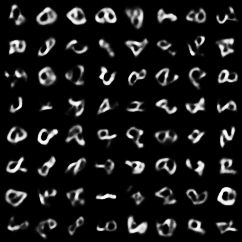
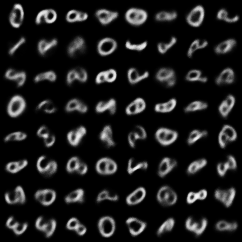
vcca

diff --git a/vcca.py b/vcca.py
@@ -1,99 +1,90 @@
-from torch import nn
+from torch import nn, cat
 from torch.autograd import Variable
-
 ZDIMS=20
-
+PDIMS=30
 class VCCA(nn.Module):
-    def __init__(self):
+    def __init__(self, private):
         super(VCCA, self).__init__()
-
+        self.private = private
         # ENCODER
         # 28 x 28 pixels = 784 input pixels, 400 outputs
-        self.fc1 = nn.Linear(784, 400)
+        self.en_z_1 = nn.Linear(784, 1024)
+        self.en_z_2 = nn.Linear(1024, 1024)
+        self.en_z_3 = nn.Linear(1024, 1024)
+
         # rectified linear unit layer from 400 to 400
         # max(0, x)
         self.relu = nn.ReLU()
-        self.fc21 = nn.Linear(400, ZDIMS)  # mu layer
-        self.fc22 = nn.Linear(400, ZDIMS)  # logvariance layer
+        self.dropout = nn.Dropout(0.1)
+        self.en_z_4_mu = nn.Linear(1024, ZDIMS)  # mu layer
+        self.en_z_4_sigma = nn.Linear(1024, ZDIMS)  # logvariance layer
         # this last layer bottlenecks through ZDIMS connections
+        if self.private:
+            self.en_x_1 = nn.Linear(784, 1024)
+            self.en_x_2 = nn.Linear(1024, 1024)
+            self.en_x_3 = nn.Linear(1024, 1024)
+            self.en_x_4_mu = nn.Linear(1024, PDIMS)
+            self.en_x_4_sigma = nn.Linear(1024, PDIMS)
+
+            self.en_y_1 = nn.Linear(784, 1024)
+            self.en_y_2 = nn.Linear(1024, 1024)
+            self.en_y_3 = nn.Linear(1024, 1024)
+            self.en_y_4_mu = nn.Linear(1024, PDIMS)
+            self.en_y_4_sigma = nn.Linear(1024, PDIMS)
 
         # DECODER 1
         # from bottleneck to hidden 400
-        self.fc31 = nn.Linear(ZDIMS, 400)
-        # from hidden 400 to 784 outputs
-        self.fc41 = nn.Linear(400, 784)
+        if self.private:
+            self.de_x_1 = nn.Linear(PDIMS+ZDIMS, 1024)
+        else:
+            self.de_x_1 = nn.Linear(ZDIMS, 1024)
+        self.de_x_2 = nn.Linear(1024, 1024)
+        self.de_x_3 = nn.Linear(1024, 1024)
+        self.de_x_4 = nn.Linear(1024, 784)
 
         # DECODER 2
-        # from bottleneck to hidden 400
-        self.fc32 = nn.Linear(ZDIMS, 400)
-        # from hidden 400 to 784 outputs
-        self.fc42 = nn.Linear(400, 784)
+        if self.private:
+            self.de_y_1 = nn.Linear(PDIMS+ZDIMS, 1024)
+        else:
+            self.de_y_1 = nn.Linear(ZDIMS, 1024)
+        self.de_y_2 = nn.Linear(1024, 1024)
+        self.de_y_3 = nn.Linear(1024, 1024)
+        self.de_y_4 = nn.Linear(1024, 784)
 
         self.sigmoid = nn.Sigmoid()
 
     def encode(self, x: Variable) -> (Variable, Variable):
         """Input vector x -> fully connected 1 -> ReLU -> (fully connected
-        21, fully connected 22)
-
-        Parameters
-        ----------
-        x : [128, 784] matrix; 128 digits of 28x28 pixels each
-
-        Returns
-        -------
-
-        (mu, logvar) : ZDIMS mean units one for each latent dimension, ZDIMS
-            variance units one for each latent dimension
 
         """
+        h1 = self.relu(self.en_z_1(self.dropout(x)))
+        h1 = self.relu(self.en_z_2(self.dropout(h1)))
+        h1 = self.relu(self.en_z_3(self.dropout(h1)))
+        return self.en_z_4_mu(self.dropout(h1)), self.en_z_4_sigma(self.dropout(h1))
 
-        # h1 is [128, 400]
-        h1 = self.relu(self.fc1(x))  # type: Variable
-        return self.fc21(h1), self.fc22(h1)
+    def private_encoder1(self, x:Variable):
+        h1 = self.relu(self.en_x_1(self.dropout(x)))
+        h1 = self.relu(self.en_x_2(self.dropout(h1)))
+        h1 = self.relu(self.en_x_3(self.dropout(h1)))
+        return self.en_x_4_mu(self.dropout(h1)), self.en_x_4_sigma(self.dropout(h1))
+
+    def private_encoder2(self, y:Variable):
+        h1 = self.relu(self.en_y_1(self.dropout(y)))
+        h1 = self.relu(self.en_y_2(self.dropout(h1)))
+        h1 = self.relu(self.en_y_3(self.dropout(h1)))
+        return self.en_y_4_mu(self.dropout(h1)), self.en_y_4_sigma(self.dropout(h1))
 
     def reparameterize(self, mu: Variable, logvar: Variable) -> Variable:
         """THE REPARAMETERIZATION IDEA:
 
-        For each training sample (we get 128 batched at a time)
-
-        - take the current learned mu, stddev for each of the ZDIMS
-          dimensions and draw a random sample from that distribution
-        - the whole network is trained so that these randomly drawn
-          samples decode to output that looks like the input
-        - which will mean that the std, mu will be learned
-          *distributions* that correctly encode the inputs
-        - due to the additional KLD term (see loss_function() below)
-          the distribution will tend to unit Gaussians
-
-        Parameters
-        ----------
-        mu : [128, ZDIMS] mean matrix
-        logvar : [128, ZDIMS] variance matrix
-
-        Returns
-        -------
-
-        During training random sample from the learned ZDIMS-dimensional
-        normal distribution; during inference its mean.
-
         """
 
         if self.training:
-            # multiply log variance with 0.5, then in-place exponent
-            # yielding the standard deviation
+
             std = logvar.mul(0.5).exp_()  # type: Variable
-            # - std.data is the [128,ZDIMS] tensor that is wrapped by std
-            # - so eps is [128,ZDIMS] with all elements drawn from a mean 0
-            #   and stddev 1 normal distribution that is 128 samples
-            #   of random ZDIMS-float vectors
+
             eps = Variable(std.data.new(std.size()).normal_())
-            # - sample from a normal distribution with standard
-            #   deviation = std and mean = mu by multiplying mean 0
-            #   stddev 1 sample with desired std and mu, see
-            #   https://stats.stackexchange.com/a/16338
-            # - so we have 128 sets (the batch) of random ZDIMS-float
-            #   vectors sampled from normal distribution with learned
-            #   std and mu for the current input
+
             return eps.mul(std).add_(mu)
 
         else:
@@ -104,15 +95,32 @@ class VCCA(nn.Module):
             return mu
 
     def decode_1(self, z: Variable) -> Variable:
-        h3 = self.relu(self.fc31(z))
-        return self.sigmoid(self.fc41(h3))
+        h3 = self.relu(self.de_x_1(self.dropout(z)))
+        h3 = self.relu(self.de_x_2(self.dropout(h3)))
+        h3 = self.relu(self.de_x_3(self.dropout(h3)))
+        return self.sigmoid(self.de_x_4(self.dropout(h3)))
 
     def decode_2(self, z: Variable) -> Variable:
-        h3 = self.relu(self.fc32(z))
-        return self.sigmoid(self.fc42(h3))
+        h3 = self.relu(self.de_y_1(self.dropout(z)))
+        h3 = self.relu(self.de_y_2(self.dropout(h3)))
+        h3 = self.relu(self.de_y_3(self.dropout(h3)))
+        return self.sigmoid(self.de_y_4(self.dropout(h3)))
 
-    def forward(self, x: Variable) -> (Variable, Variable, Variable):
-        mu, logvar = self.encode(x.view(-1, 784))
-        z = self.reparameterize(mu, logvar)
-        return self.decode_1(z), self.decode_2(z), mu, logvar
+    def forward(self, x: Variable, y: Variable) -> (Variable, Variable, Variable):
+        mu, log_var = self.encode(x.view(-1, 784))
+
+        if self.private:
+            mu1, log_var1 = self.private_encoder1(x.view(-1, 784))
+            mu2, log_var2 = self.private_encoder2(y.view(-1, 784))
+            mu1_tmp = cat((mu,mu1), 1)
+            log_var1_tmp = cat((log_var,log_var1), 1)
+            mu2_tmp = cat((mu, mu2), 1)
+            log_var2_tmp = cat((log_var, log_var2), 1)
+            z1 = self.reparameterize(mu1_tmp, log_var1_tmp)
+            z2 = self.reparameterize(mu2_tmp, log_var2_tmp)
+            return self.decode_1(z1), self.decode_2(z2), mu, log_var, mu1, log_var1, mu2, log_var2
+
+        z1 = self.reparameterize(mu, log_var)
+        z2 = self.reparameterize(mu, log_var)
+        return self.decode_1(z1), self.decode_2(z2), mu, log_var
 

diff --git a/main.py b/main.py
@@ -13,9 +13,10 @@ CUDA = False
 SEED = 1
 BATCH_SIZE = 128
 LOG_INTERVAL = 10
-EPOCHS = 10
+EPOCHS = 50
 ZDIMS = 20
-
+PDIMS = 30
+PRIVATE = True
 # I do this so that the MNIST dataset is downloaded where I want it
 os.chdir("/Users/edison/PycharmProjects/vcca_pytorch")
 
@@ -48,7 +49,7 @@ train_loader = torch.utils.data.DataLoader(
 #    datasets.MNIST('data', train=False, transform=transforms.ToTensor()),
 #    batch_size=BATCH_SIZE, shuffle=True, **kwargs)
 
-model = VCCA()
+model = VCCA(PRIVATE)
 
 if CUDA:
     model.cuda()
@@ -76,8 +77,39 @@ def loss_function(recon_x1, recon_x2, x1, x2, mu, logvar) -> Variable:
     # KLD tries to push the distributions as close as possible to unit Gaussian
     return BCE1 + KLD + BCE2
 
+def loss_function_private(recon_x1, recon_x2, x1, x2, mu, logvar, mu1, logvar1, mu2, logvar2) -> Variable:
+    # how well do input x and output recon_x agree?
+    BCE1 = F.binary_cross_entropy(recon_x1, x1.view(-1, 784))
+    BCE2 = F.binary_cross_entropy(recon_x2, x2.view(-1, 784))
+
+    # KLD is Kullback–Leibler divergence -- how much does one learned
+    # distribution deviate from another, in this specific case the
+    # learned distribution from the unit Gaussian
+
+    # see Appendix B from VAE paper:
+    # Kingma and Welling. Auto-Encoding Variational Bayes. ICLR, 2014
+    # https://arxiv.org/abs/1312.6114
+    # - D_{KL} = 0.5 * sum(1 + log(sigma^2) - mu^2 - sigma^2)
+    # note the negative D_{KL} in appendix B of the paper
+    KLD = -0.5 * torch.sum(1 + logvar - mu.pow(2) - logvar.exp())
+    # Normalise by same number of elements as in reconstruction
+    KLD /= BATCH_SIZE * 784
+
+    KLD1 = -0.5 * torch.sum(1 + logvar1 - mu1.pow(2) - logvar1.exp())
+    # Normalise by same number of elements as in reconstruction
+    KLD1 /= BATCH_SIZE * 784
+
+    KLD2 = -0.5 * torch.sum(1 + logvar2 - mu2.pow(2) - logvar2.exp())
+    # Normalise by same number of elements as in reconstruction
+    KLD2 /= BATCH_SIZE * 784
+
+    # BCE tries to make our reconstruction as accurate as possible
+    # KLD tries to push the distributions as close as possible to unit Gaussian
+    return BCE1 + KLD + KLD1 + KLD2 + BCE2
+
+
 # Dr Diederik Kingma: as if VAEs weren't enough, he also gave us Adam!
-optimizer = optim.Adam(model.parameters(), lr=1e-3)
+optimizer = optim.Adam(model.parameters(), lr=0.0001)
 
 
 def train(epoch):
@@ -94,10 +126,14 @@ def train(epoch):
             data2 = data2.cuda()
         optimizer.zero_grad()
 
-        # push whole batch of data through VAE.forward() to get recon_loss
-        recon_batch1, recon_batch2, mu, logvar = model(data1)
-        # calculate scalar loss
-        loss = loss_function(recon_batch1, recon_batch2, data1, data2, mu, logvar)
+        if not model.private:
+            # push whole batch of data through VAE.forward() to get recon_loss
+            recon_batch1, recon_batch2, mu, log_var = model(data1, data2)
+            # calculate scalar loss
+            loss = loss_function(recon_batch1, recon_batch2, data1, data2, mu, log_var)
+        else:
+            recon_batch1, recon_batch2, mu, log_var, mu1, log_var1, mu2, log_var2 = model(data1, data2)
+            loss = loss_function_private(recon_batch1, recon_batch2, data1, data2, mu, log_var, mu1, log_var1, mu2, log_var2)
         # calculate the gradient of the loss w.r.t. the graph leaves
         # i.e. input variables -- by the power of pytorch!
         loss.backward()
@@ -117,10 +153,14 @@ def train(epoch):
 for epoch in range(1, EPOCHS + 1):
     train(epoch)
     #est(epoch)
-
+    model.eval()
     # 64 sets of random ZDIMS-float vectors, i.e. 64 locations / MNIST
     # digits in latent space
-    sample = Variable(torch.randn(64, ZDIMS))
+    if model.private:
+        sample = Variable(torch.randn(64, PDIMS+ZDIMS))
+    else:
+        sample = Variable(torch.randn(64, ZDIMS))
+
     if CUDA:
         sample = sample.cuda()
     sample1 = model.decode_1(sample).cpu()
@@ -128,8 +168,11 @@ for epoch in range(1, EPOCHS + 1):
     # save out as an 8x8 matrix of MNIST digits
     # this will give you a visual idea of how well latent space can generate things
     # that look like digits
-    save_image(sample1.data.view(64, 1, 28, 28),
-               'results/sample1_' + str(epoch) + '.png')
-    save_image(sample2.data.view(64, 1, 28, 28),
-               'results/sample2_' + str(epoch) + '.png')
+    if epoch % 5 == 0:
+        save_image(sample1.data.view(64, 1, 28, 28),
+                   'results/sample1_' + str(epoch) + '.png')
+        save_image(sample2.data.view(64, 1, 28, 28),
+                   'results/sample2_' + str(epoch) + '.png')
 
+with open('model.pt','wb') as f:
+    torch.save(model, f)

diff --git a/test.py b/test.py
@@ -2,39 +2,64 @@ import torch.utils.data
 from utils import *
 from torchvision import datasets, transforms
 from utils import *
+from torchvision.utils import save_image
 from torch.autograd import Variable
-CUDA = False
-SEED = 1
-BATCH_SIZE = 128
-LOG_INTERVAL = 10
-EPOCHS = 10
-ZDIMS = 20
+import matplotlib.pyplot as plt
 
-torch.manual_seed(SEED)
+with open('model.pt', 'rb') as f:
+    model = torch.load(f)
 
-if CUDA:
-    torch.cuda.manual_seed(SEED)
 
-# DataLoader instances will load tensors directly into GPU memory
-kwargs = {'num_workers': 1, 'pin_memory': True} if CUDA else {}
+model.eval()
 
-# Download or load downloaded MNIST dataset
-# shuffle data at every epoch
 data1 = load_data('noisymnist_view1.gz')
 data2 = load_data('noisymnist_view2.gz')
-
-train_set_x1, _ = data1[0]
-train_set_x2, _ = data2[0]
+train_set_x1, label1 = data1[0]
+train_set_x2, label2 = data2[0]
 
 train_loader = torch.utils.data.DataLoader(
              ConcatDataset(
                  train_set_x1,
                  train_set_x2
              ),
-             batch_size=BATCH_SIZE, shuffle=True)
+             batch_size=1, shuffle=False)
+
+
+print(label1[:10])
+print(label2[:10])
 
 for batch_idx, (data1, data2) in enumerate(train_loader):
-    data1 = Variable(data1)
-    data2 = Variable(data2)
+    data1 = Variable(data1).float()
+    data2 = Variable(data2).float()
 
-    print(data1.shape)
+    model.eval()
+
+    mu_z, _ = model.encode(data1)
+    sample1 = data1
+    for batch_idx2, (data11, data22) in enumerate(train_loader):
+        data11 = Variable(data11).float()
+
+        p_mu, log_var = model.private_encoder1(data11)
+        std = log_var.mul(0.5).exp_()  # type: Variable
+
+        eps = Variable(std.data.new(std.size()).normal_())
+
+        input = eps.mul(std).add_(p_mu)
+
+
+        sample_tmp = torch.cat((mu_z, input),1)
+        sample_tmp = model.decode_1(sample_tmp).cpu()
+
+        sample1 = torch.cat((sample1, sample_tmp),1)
+        if batch_idx2 == 6:
+            break
+    if batch_idx == 0:
+        res = sample1
+    else:
+        res = torch.cat((res, sample1),0)
+
+    if batch_idx == 7:
+        break
+print(res.size())
+save_image(res.data.view(64, 1, 28, 28),
+           'results/final.png')
